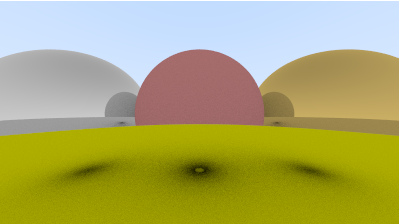
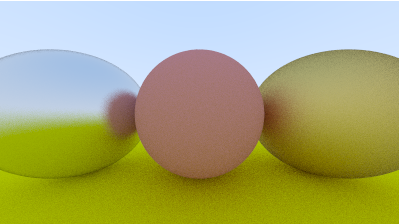
made point 9.

diff --git a/ray.go b/ray.go
@@ -11,7 +11,6 @@ func (r ray) At(t float64) point3 {
 
 //"Background" color (colors can be changed)
 func (r ray) RayColor(world hittable, maxDepth int) color3 {
-
 	if maxDepth <= 0 {
 		//No more light gathered
 		return color3{0, 0, 0}
@@ -21,12 +20,13 @@ func (r ray) RayColor(world hittable, maxDepth int) color3 {
 	if hit == true {
 
 		scattered, attenuation, scatter := rec.mat.scatter(r, rec)
+		// attenuation.Print()
 		if scatter {
 			return attenuation.MultEach(scattered.RayColor(world, maxDepth-1))
 		}
 		return color3{0, 0, 0}
 	}
 
-	rec.t = 0.5 * (r.direction.Normalize().Y() + 1.0)
-	return Lerp(color3{1.0, 1.0, 1.0}, color3{0.5, 0.7, 1.0}, rec.t)
+	t := 0.5 * (r.direction.Normalize().Y() + 1.0)
+	return Lerp(color3{1.0, 1.0, 1.0}, color3{0.5, 0.7, 1.0}, t)
 }

diff --git a/main.go b/main.go
@@ -22,13 +22,16 @@ func main() {
 
 	materialGround := lambertian{color3{0.8, 0.8, 0.0}}
 	materialCenter := lambertian{color3{0.7, 0.3, 0.3}}
-	materialLeft := metal{color3{0.8, 0.8, 0.8}}
-	materialRight := metal{color3{0.8, 0.6, 0.2}}
+	materialLeft := metal{color3{0.8, 0.8, 0.8}, 0.3}
+	materialRight := metal{color3{0.8, 0.6, 0.2}, 1.0}
 
-	world.Add(sphere{point3{0, -100.5, -1}, 100.0, materialGround})
+	//Somehow order matters check later
 	world.Add(sphere{point3{0, 0, -1}, 0.5, materialCenter})
 	world.Add(sphere{point3{-1, 0, -1}, 0.5, materialLeft})
 	world.Add(sphere{point3{1, 0, -1}, 0.5, materialRight})
+	world.Add(sphere{point3{0, -100.5, -1}, 100.0, materialGround})
+
+	fmt.Print(world)
 
 	//Camera
 	c := initCamera()

diff --git a/material.go b/material.go
@@ -23,13 +23,14 @@ func (lamb lambertian) scatter(rayIn ray, rec hitRecord) (scattered ray, attenua
 
 type metal struct {
 	albedo color3
+	fuzz   float64 //Radius of sphere
 }
 
 func (m metal) scatter(rayIn ray, rec hitRecord) (scattered ray, attenuation color3, scatter bool) {
 
 	reflected := reflect(rayIn.direction.Normalize(), rec.normal)
 
-	scattered = ray{rec.p, reflected}
+	scattered = ray{rec.p, reflected.Add(randomInUnitSphere().Mult(m.fuzz))}
 	attenuation = m.albedo
 	return scattered, attenuation, scattered.direction.Dot(rec.normal) > 0
 }

diff --git a/vec3.go b/vec3.go
@@ -40,7 +40,7 @@ func (v vec3) Mult(c float64) vec3 {
 }
 
 func (v vec3) MultEach(v2 vec3) vec3 {
-	return vec3{v[0] * v2[0], v[1] * v2[0], v[2] * v2[0]}
+	return vec3{v[0] * v2[0], v[1] * v2[1], v[2] * v2[2]}
 }
 
 func (v vec3) Div(c float64) vec3 {
